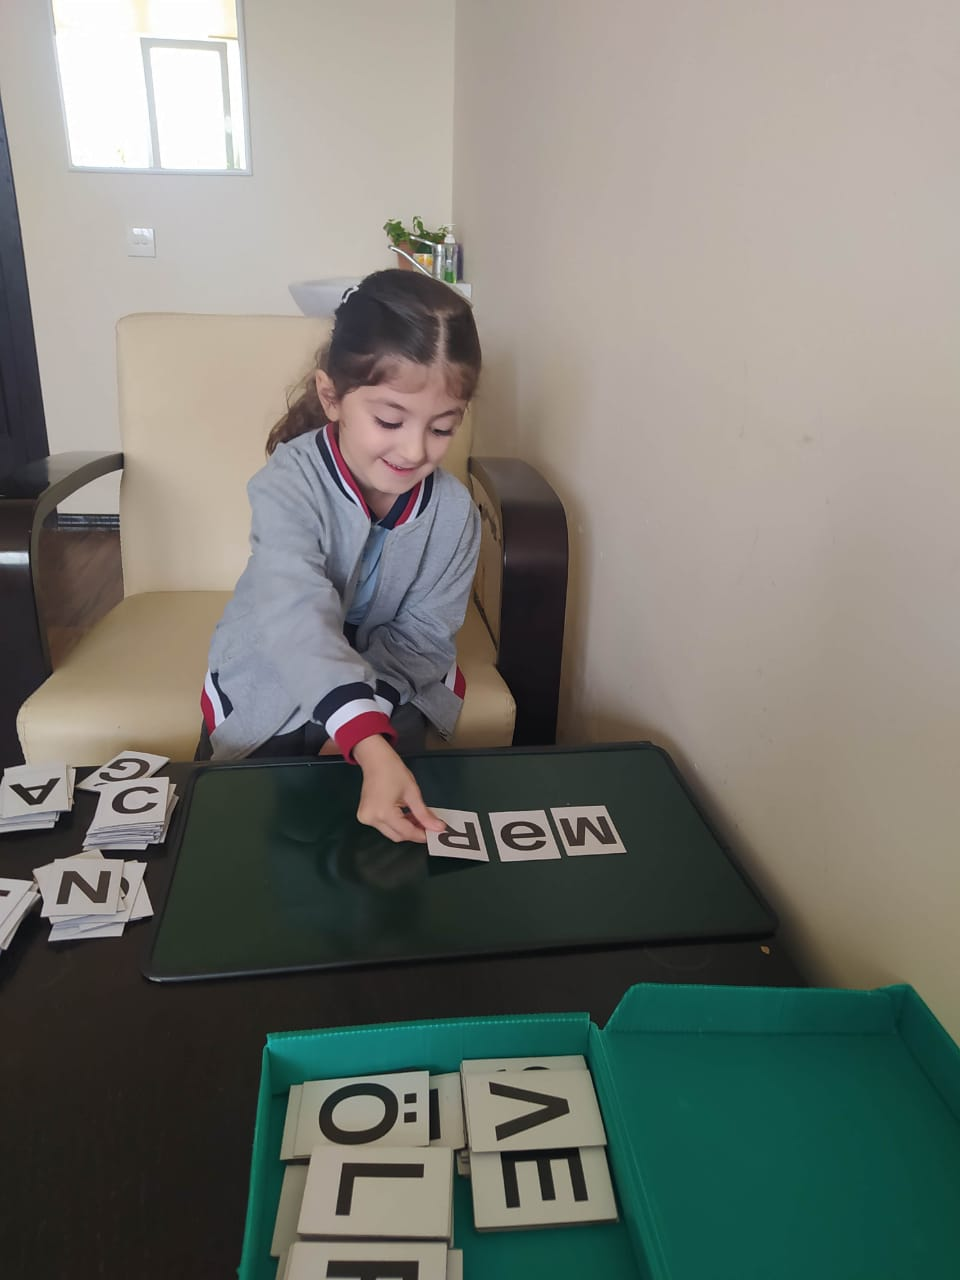
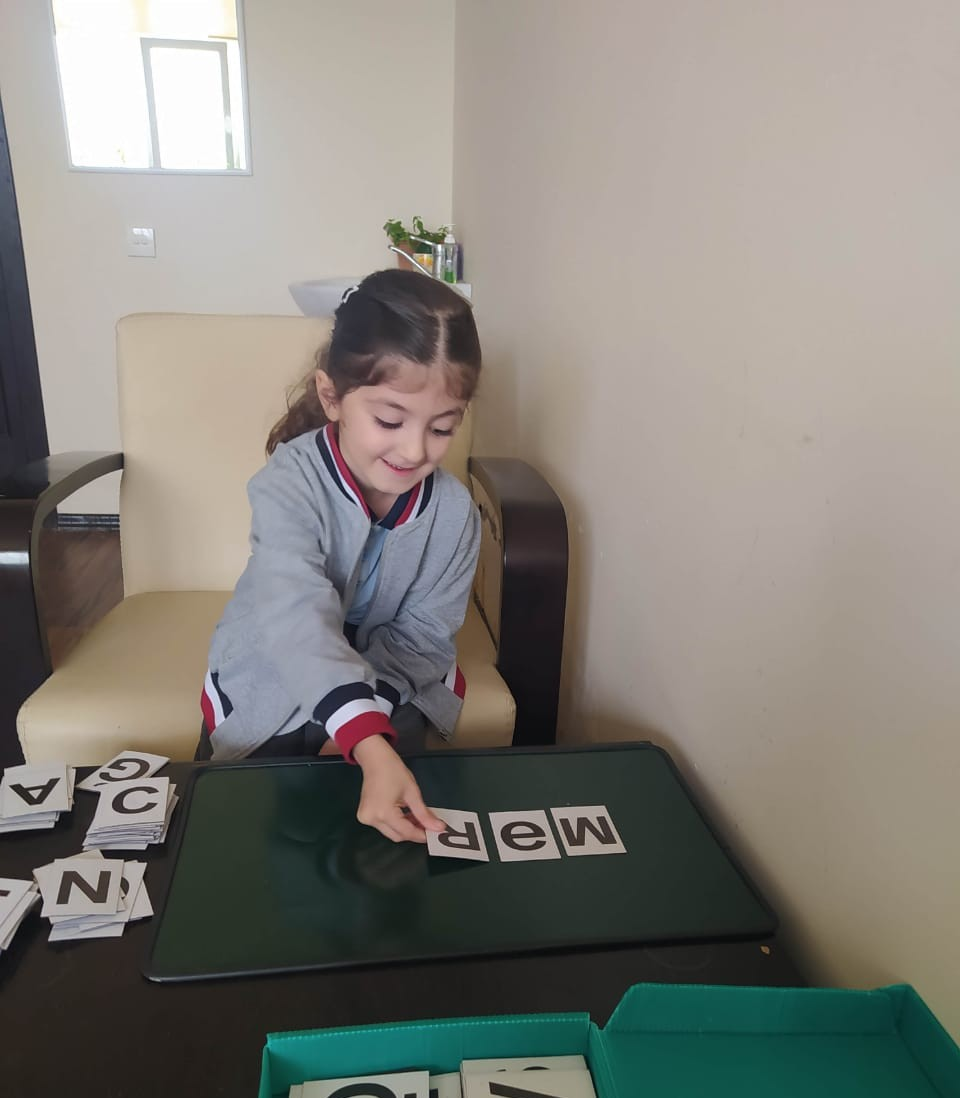
slide-16 changed2

diff --git a/slides/slide-16.html b/slides/slide-16.html
@@ -1,6 +1,6 @@
-<div class="slide" id="slide-17">
-    <div class="glass-card main-content full-width overflow-hidden">
-        <div class="flex flex-col items-center mb-8 z-10">
+<div class="slide" id="slide-16">
+    <div class="glass-card main-content full-width overflow-hidden flex flex-col">
+        <div class="flex flex-col items-center mb-8 z-10 shrink-0">
             <div class="flex items-center gap-3 mb-2 animate-text">
                 <span
                     class="bg-blue-100 text-blue-600 px-4 py-1 rounded-full text-xs font-bold uppercase tracking-wider">MONİTORİNQ</span>
@@ -15,7 +15,7 @@
             </p>
         </div>
 
-        <div class="grid grid-cols-1 lg:grid-cols-2 gap-8 h-full items-stretch pb-4">
+        <div class="grid grid-cols-1 lg:grid-cols-2 gap-8 h-full items-stretch pb-4 flex-1 min-h-0">
             <!-- Left Column: Text Content -->
             <div class="flex flex-col justify-center gap-6 animate-stagger">
                 <div class="bg-white/60 p-6 rounded-3xl border border-white shadow-sm">
@@ -69,11 +69,11 @@
                 </div>
             </div>
 
-            <!-- Right Column: 4 Images -->
-            <div class="grid grid-cols-2 gap-3 content-center h-full">
+            <!-- Right Column: 4 Images (Strict 2x2 Grid) -->
+            <div class="grid grid-cols-2 grid-rows-2 gap-4 h-full min-h-0 grid-flow-col">
                 <!-- Image 1 -->
                 <div class="gallery-card bg-gray-100 rounded-2xl overflow-hidden shadow-sm border border-gray-200 relative group cursor-pointer hover:shadow-md transition-all animate-stagger"
-                    style="aspect-ratio: 16/9;">
+                    style="min-height: 0;">
                     <img src="/images/slide16/1.jpg" alt="Monitoring 1"
                         class="w-full h-full object-cover transition-transform duration-500 group-hover:scale-110">
                     <div
@@ -85,7 +85,7 @@
 
                 <!-- Image 2 -->
                 <div class="gallery-card bg-gray-100 rounded-2xl overflow-hidden shadow-sm border border-gray-200 relative group cursor-pointer hover:shadow-md transition-all animate-stagger"
-                    style="aspect-ratio: 16/9;">
+                    style="min-height: 0;">
                     <img src="/images/slide16/2.jpg" alt="Monitoring 2"
                         class="w-full h-full object-cover transition-transform duration-500 group-hover:scale-110">
                     <div
@@ -97,7 +97,7 @@
 
                 <!-- Image 3 -->
                 <div class="gallery-card bg-gray-100 rounded-2xl overflow-hidden shadow-sm border border-gray-200 relative group cursor-pointer hover:shadow-md transition-all animate-stagger"
-                    style="aspect-ratio: 16/9;">
+                    style="min-height: 0;">
                     <img src="/images/slide16/3.jpg" alt="Monitoring 3"
                         class="w-full h-full object-cover transition-transform duration-500 group-hover:scale-110">
                     <div
@@ -109,7 +109,7 @@
 
                 <!-- Image 4 -->
                 <div class="gallery-card bg-gray-100 rounded-2xl overflow-hidden shadow-sm border border-gray-200 relative group cursor-pointer hover:shadow-md transition-all animate-stagger"
-                    style="aspect-ratio: 16/9;">
+                    style="min-height: 0;">
                     <img src="/images/slide16/4.jpg" alt="Monitoring 4"
                         class="w-full h-full object-cover transition-transform duration-500 group-hover:scale-110">
                     <div

diff --git a/analyze_images.js b/analyze_images.js
@@ -22,7 +22,7 @@ function getDimensions(filePath) {
     return null;
 }
 
-const dirs = ['slide17'];
+const dirs = ['slide16'];
 const baseDir = 'c:\\Users\\orkha\\Desktop\\test\\images';
 
 dirs.forEach(dir => {
